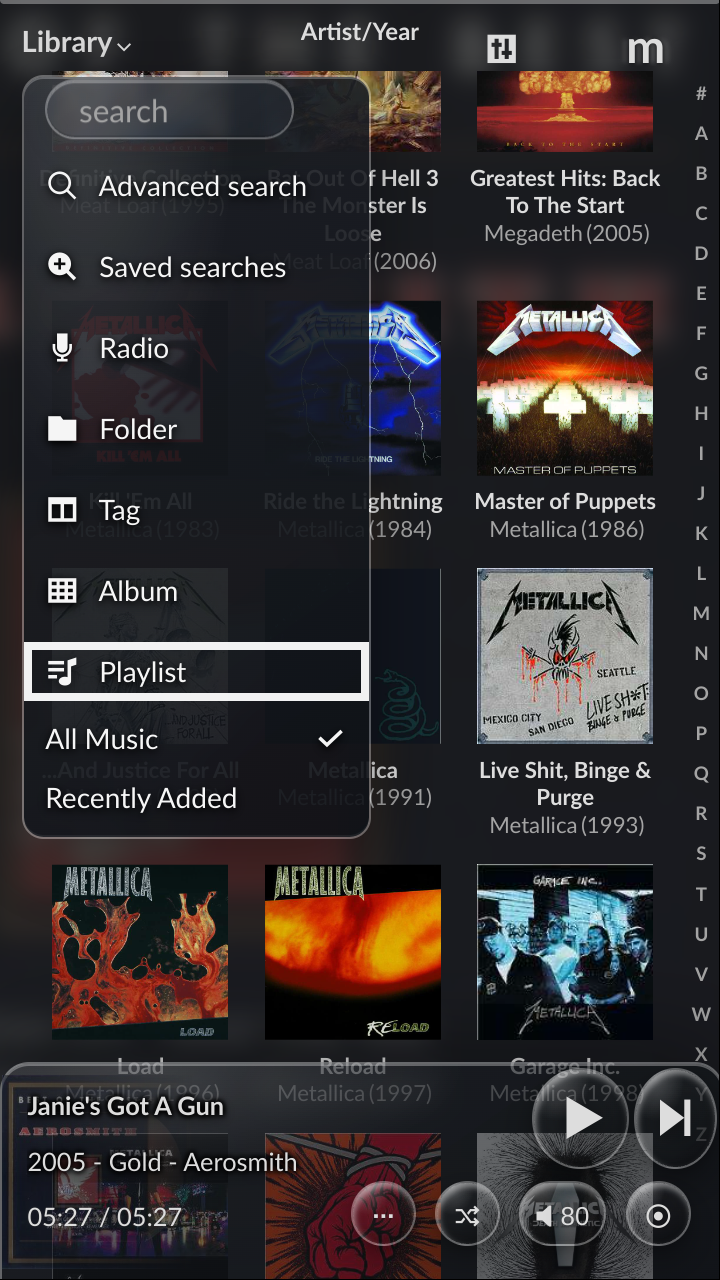
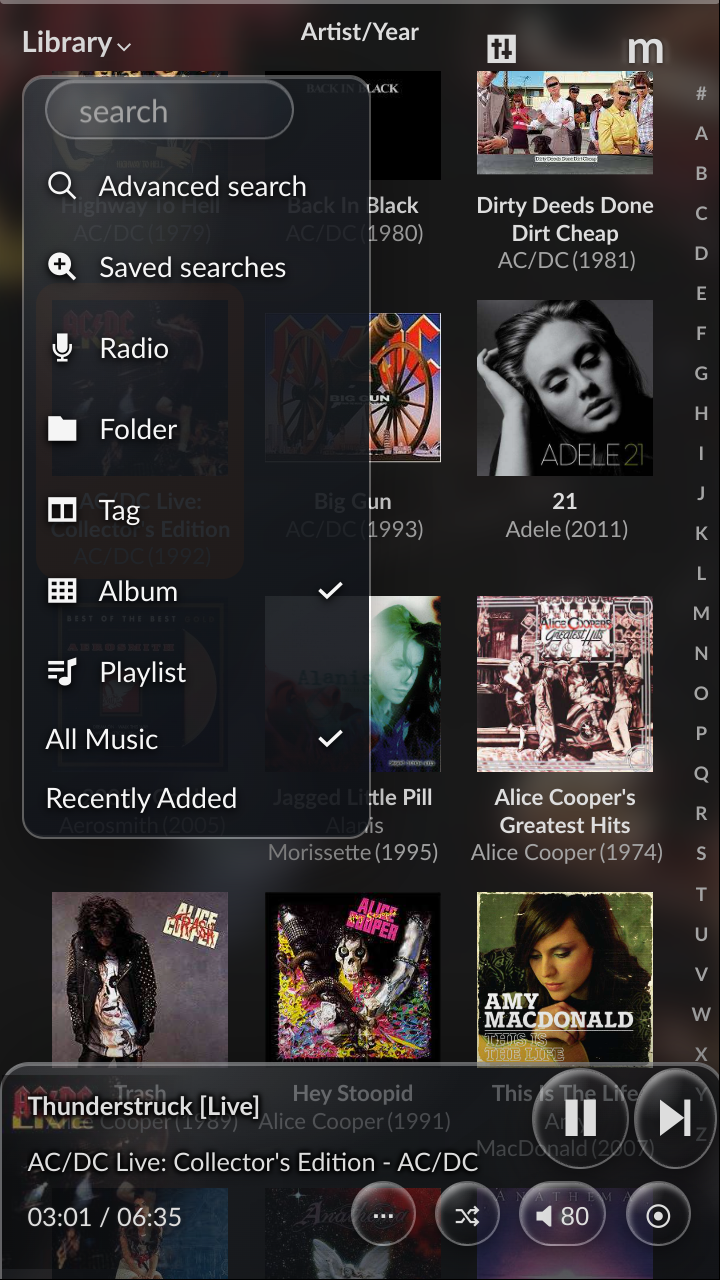
screenshot updates

diff --git a/SiriRemote/readme.md b/SiriRemote/readme.md
@@ -370,7 +370,7 @@ Previous/Next behavior.
   <img width="350" alt="Current touchpad focus inside the optimized Album view" src="assets/siri-navigation-album.png" />
   <img width="350" alt="Current selection in the compact Library source chooser" src="assets/siri-navigation-library-source.png" />
 </p>
-<sub>Current local interface with the optional Liquid Glass theme. Left: directional touchpad focus in the square-cover Album view. Right: the high-contrast Library source chooser after a double press on Menu/Back.</sub>
+<sub>Current local interface with the optional Liquid Glass theme. Left: directional touchpad focus in the square-cover Album view. Right: the high-contrast Library source chooser after a double press on Menu/Back, focused on the active source.</sub>
 
 The first-generation touch area is decoded in both axes. Swipe distance and
 average speed are combined into bounded momentum: a deliberate short swipe

diff --git a/LiquidGlassTheme/readme.md b/LiquidGlassTheme/readme.md
@@ -26,7 +26,7 @@ part of this theme and remains local to the Raspberry Pi display.
   <img width="350" alt="Liquid Glass Album view" src="assets/liquid-glass-album.png" />
   <img width="350" alt="Liquid Glass Library menu" src="assets/liquid-glass-library.png" />
 </p>
-<sub>The current optimized Album grid, responsive glass playbar, and static-glass Library menu. The white focus frame is supplied by the optional SiriRemote navigation integration.</sub><br><br>
+<sub>Current neutral Liquid Glass views: the optimized Album grid with responsive glass playbar, and the normally opened static-glass Library menu. Neither image contains a temporary SiriRemote focus state.</sub><br><br>
 
 ## What the patch changes
 
